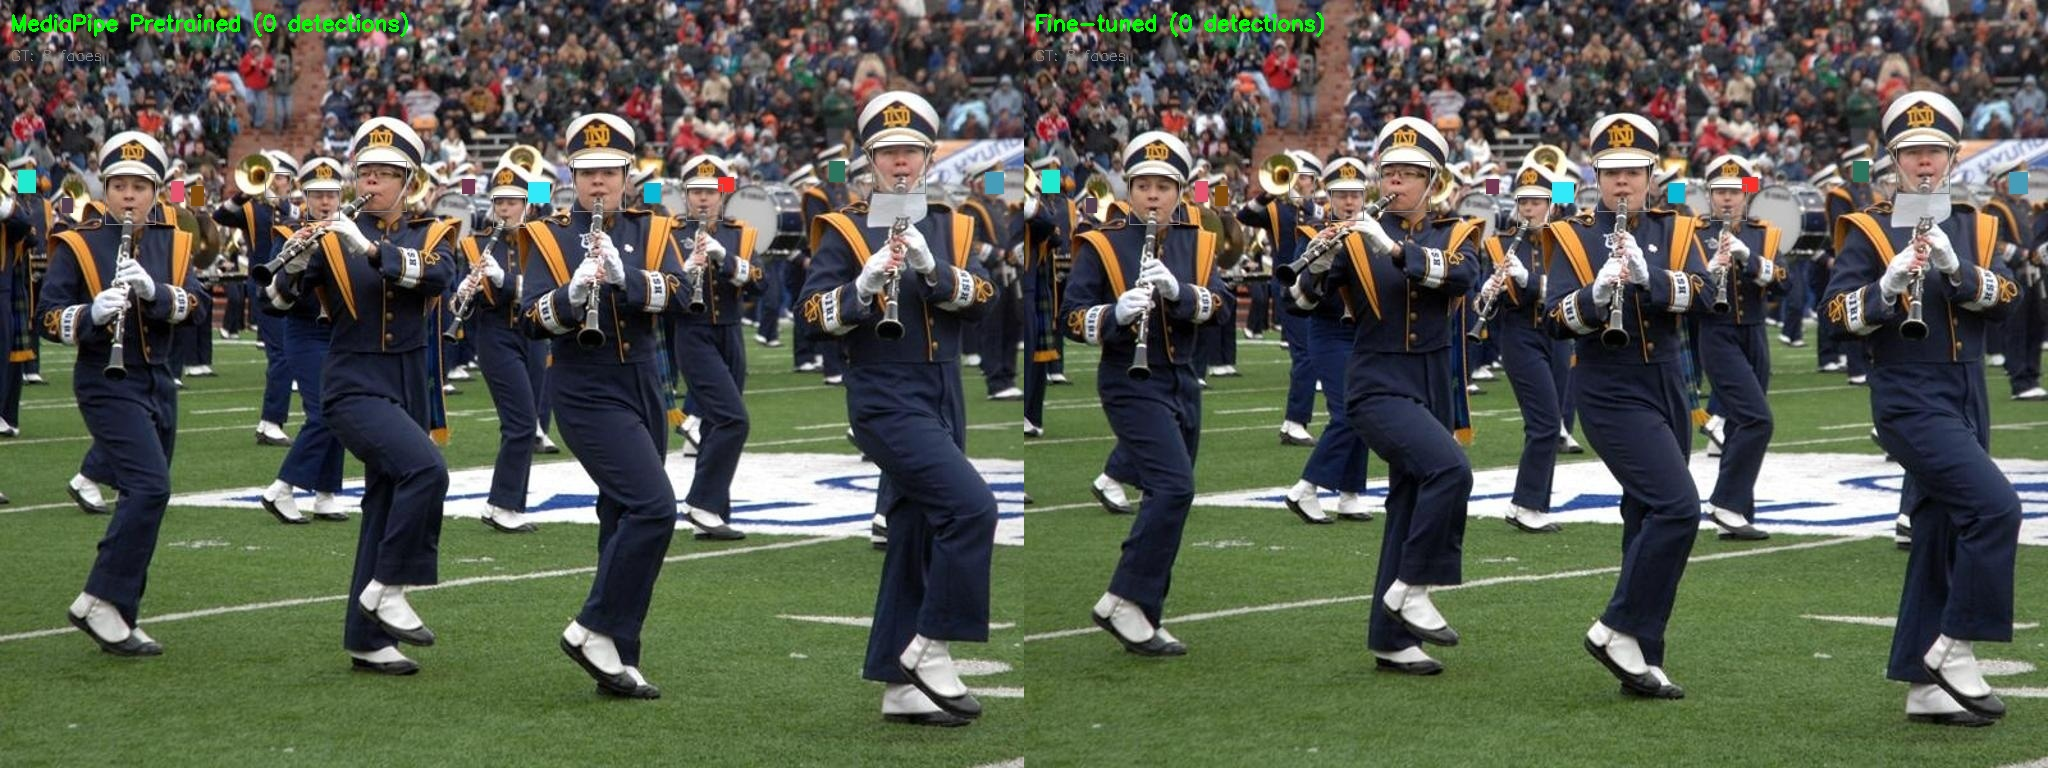
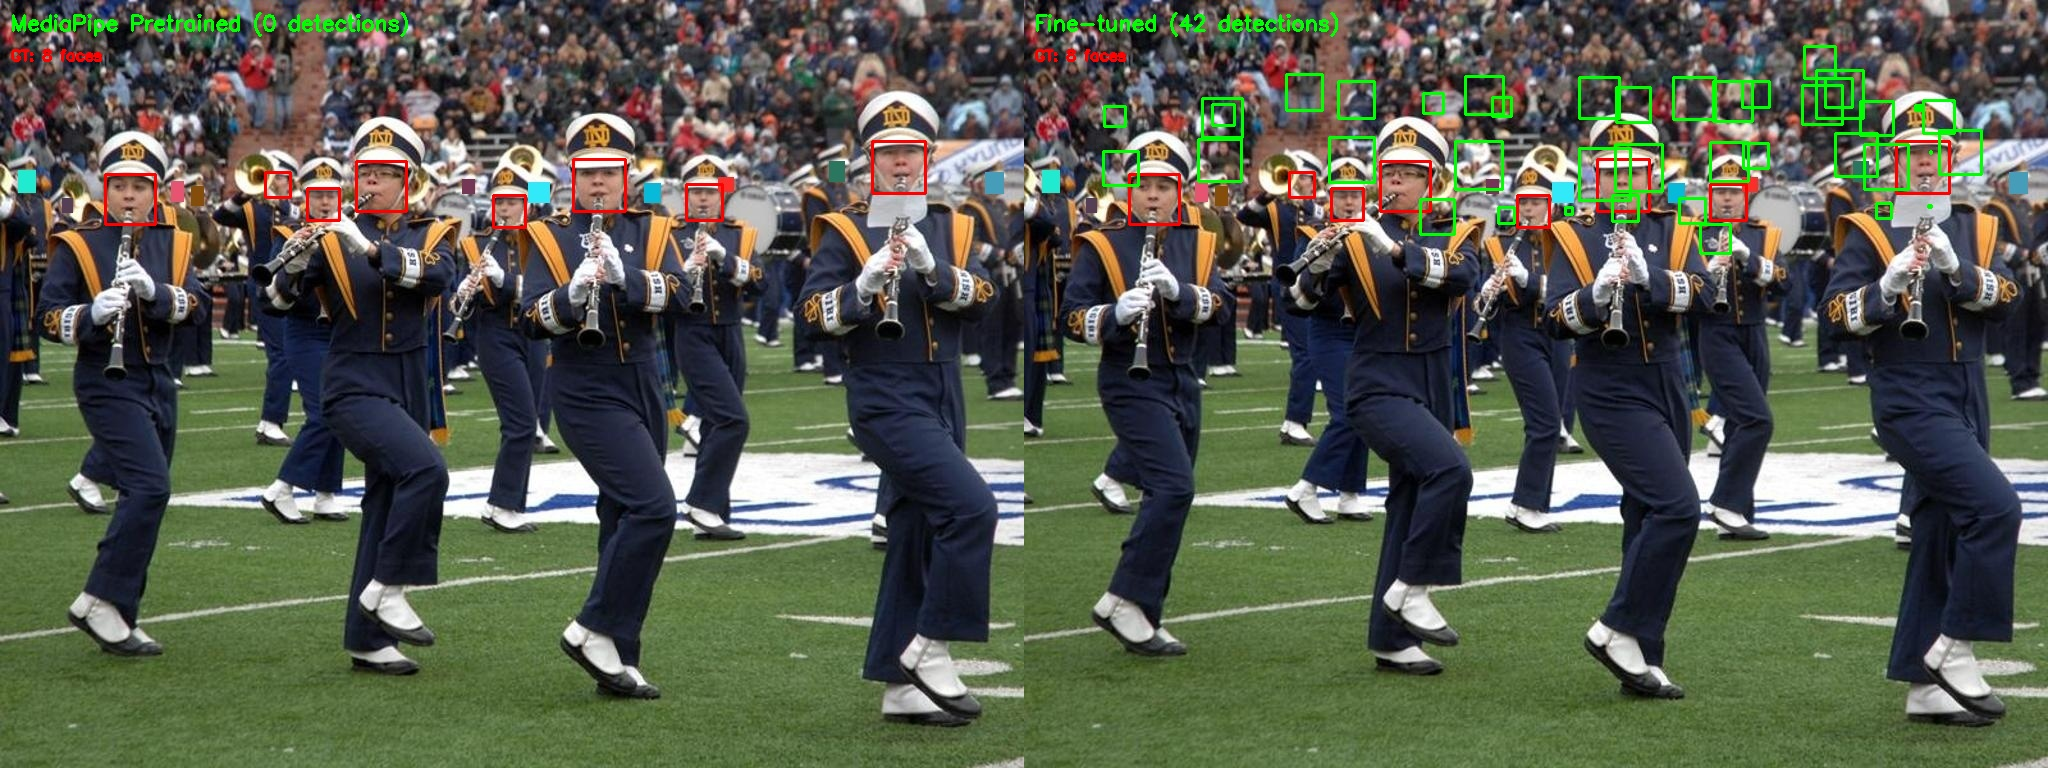
Update screenshot generation script and add comparison images for model detections

diff --git a/generate_screenshots.py b/generate_screenshots.py
@@ -20,6 +20,9 @@ def draw_detections(image, detections, color=(0, 255, 0), thickness=2):
         if len(det) >= 4:
             # Detections are [ymin, xmin, ymax, xmax] normalized
             ymin, xmin, ymax, xmax = det[:4]
+            # Convert tensors to float if needed
+            if hasattr(ymin, 'item'):
+                ymin, xmin, ymax, xmax = ymin.item(), xmin.item(), ymax.item(), xmax.item()
             x1 = int(xmin * w)
             y1 = int(ymin * h)
             x2 = int(xmax * w)
@@ -68,18 +71,27 @@ def run_inference(model, image, device):
     with torch.no_grad():
         detections = model.predict_on_batch(img_tensor)
     
+    # predict_on_batch returns list of tensors, one per image in batch
+    # Each tensor has shape (num_detections, 17) where first 4 are [ymin, xmin, ymax, xmax]
+    # For single image batch, get first element
+    dets = detections[0] if len(detections) > 0 else []
+    
     # Scale detections back to original image coordinates
     scaled_dets = []
-    for det in detections:
+    for det in dets:
         if len(det) >= 4:
-            ymin, xmin, ymax, xmax = det[:4]
+            # Extract values from tensor
+            ymin = det[0].item() if hasattr(det[0], 'item') else float(det[0])
+            xmin = det[1].item() if hasattr(det[1], 'item') else float(det[1])
+            ymax = det[2].item() if hasattr(det[2], 'item') else float(det[2])
+            xmax = det[3].item() if hasattr(det[3], 'item') else float(det[3])
             # Remove padding offset and scale
             ymin_px = (ymin * target_size - pad_top) / scale
             xmin_px = (xmin * target_size - pad_left) / scale
             ymax_px = (ymax * target_size - pad_top) / scale
             xmax_px = (xmax * target_size - pad_left) / scale
             # Back to normalized
-            scaled_dets.append([ymin_px / h, xmin_px / w, ymax_px / h, xmax_px / w] + list(det[4:]))
+            scaled_dets.append([ymin_px / h, xmin_px / w, ymax_px / h, xmax_px / w])
     
     return scaled_dets
 
@@ -97,10 +109,10 @@ def create_comparison_image(pretrained_model, trained_model, image_path, gt_boxe
     trained_dets = run_inference(trained_model, img_rgb, device)
     
     # Draw on images
-    img_pretrained = draw_gt_boxes(img.copy(), gt_boxes, color=(128, 128, 128), thickness=1)
+    img_pretrained = draw_gt_boxes(img.copy(), gt_boxes, color=(0, 0, 255), thickness=2)
     img_pretrained = draw_detections(img_pretrained, pretrained_dets, color=(0, 255, 0), thickness=2)
     
-    img_trained = draw_gt_boxes(img.copy(), gt_boxes, color=(128, 128, 128), thickness=1)
+    img_trained = draw_gt_boxes(img.copy(), gt_boxes, color=(0, 0, 255), thickness=2)
     img_trained = draw_detections(img_trained, trained_dets, color=(0, 255, 0), thickness=2)
     
     # Add labels
@@ -110,9 +122,9 @@ def create_comparison_image(pretrained_model, trained_model, image_path, gt_boxe
     cv2.putText(img_trained, f'Fine-tuned ({len(trained_dets)} detections)', 
                 (10, 30), font, 0.7, (0, 255, 0), 2)
     cv2.putText(img_pretrained, f'GT: {len(gt_boxes)} faces', 
-                (10, 60), font, 0.5, (128, 128, 128), 1)
+                (10, 60), font, 0.5, (0, 0, 255), 2)
     cv2.putText(img_trained, f'GT: {len(gt_boxes)} faces', 
-                (10, 60), font, 0.5, (128, 128, 128), 1)
+                (10, 60), font, 0.5, (0, 0, 255), 2)
     
     # Combine side by side
     combined = np.hstack([img_pretrained, img_trained])
@@ -133,10 +145,10 @@ def main():
     
     # Load models
     print('Loading pretrained model...')
-    pretrained_model = load_model('model_weights/blazeface.pth', device=device)
+    pretrained_model = load_model('model_weights/blazeface.pth', device=device, threshold=0.5)
     
     print('Loading trained model...')
-    trained_model = load_model('model_weights/blazeface.pth', device=device)
+    trained_model = load_model('model_weights/blazeface.pth', device=device, threshold=0.6)
     checkpoint = torch.load('runs/checkpoints/BlazeFace_best.pth', map_location=device)
     trained_model.load_state_dict(checkpoint['model_state_dict'])
     trained_model.eval()
